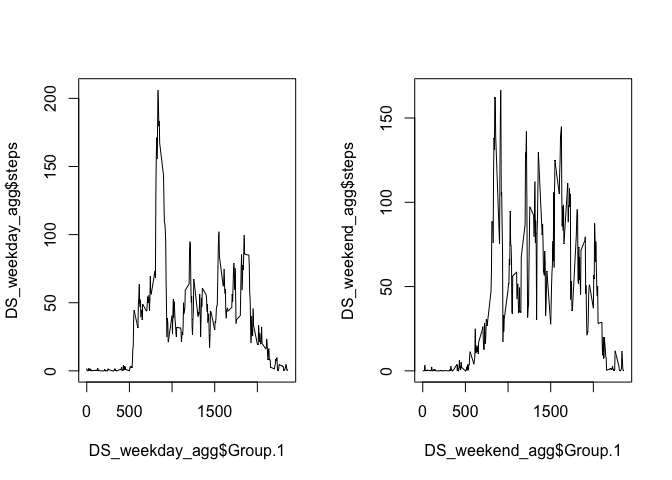
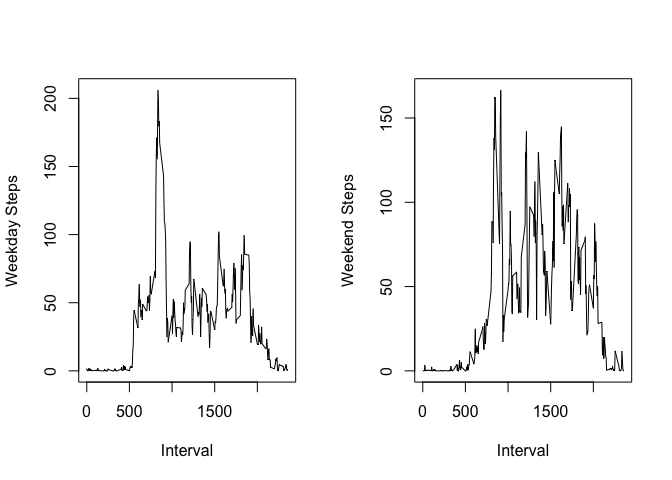
added edits to plot labels

diff --git a/Untitled.md b/Untitled.md
@@ -95,8 +95,8 @@ hist(dta.sum2$steps, main = "Total Steps After Imputations", xlab = 'Steps')
         DS_weekend_agg <- aggregate(x = DS_weekend['steps'], FUN = mean, by = list(DS_weekend$interval))
 
         par(mfrow=c(1,2))
-        plot(x = DS_weekday_agg$Group.1, y = DS_weekday_agg$steps, type = "l")
-        plot(x = DS_weekend_agg$Group.1, y = DS_weekend_agg$steps, type = "l")
+        plot(x = DS_weekday_agg$Group.1, y = DS_weekday_agg$steps, type = "l", xlab = 'Interval', ylab = 'Weekday Steps')
+        plot(x = DS_weekend_agg$Group.1, y = DS_weekend_agg$steps, type = "l", xlab = 'Interval', ylab = 'Weekend Steps')
 ```
 
 ![](Untitled_files/figure-markdown_github-ascii_identifiers/unnamed-chunk-8-1.png)
